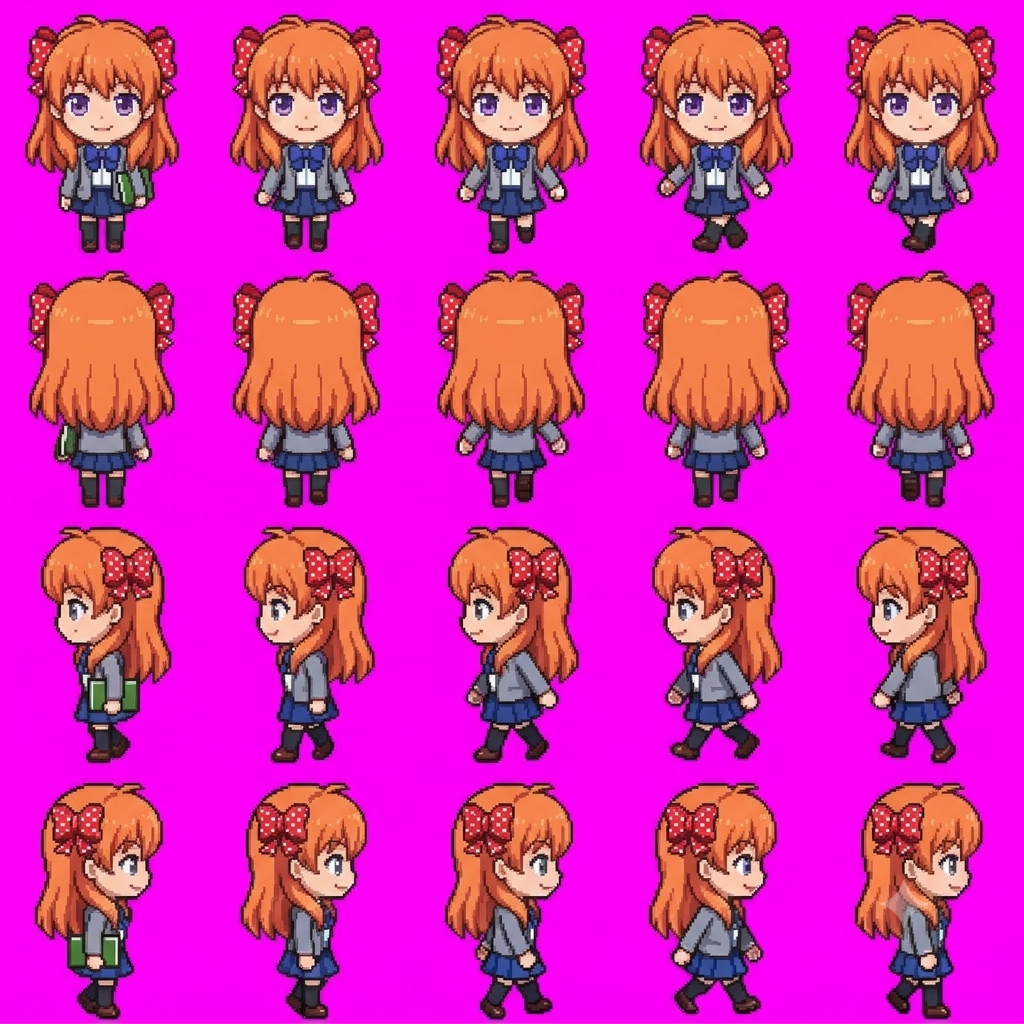
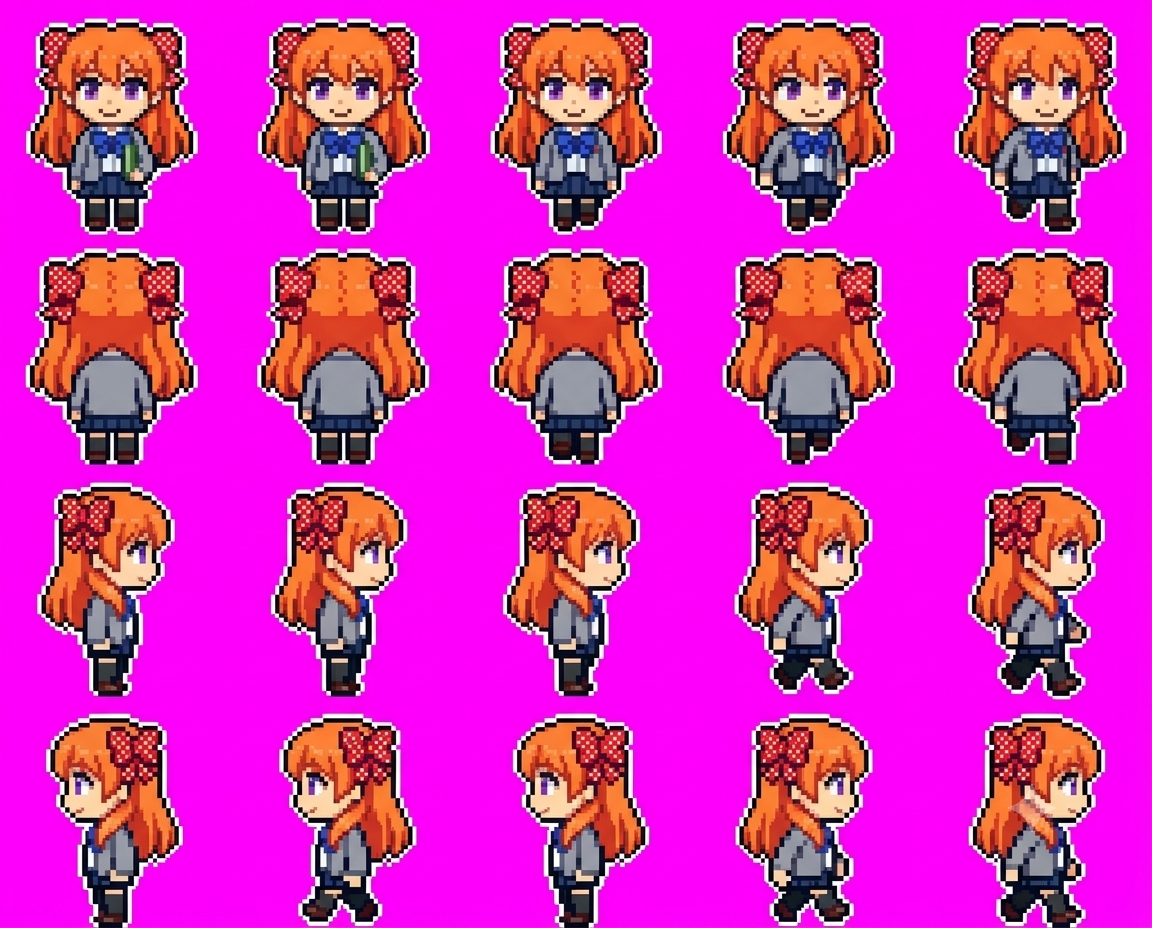
Redraw Chiyo to match Nozaki's art style, without the white outline
Claude-Session: https://claude.ai/code/session_01KaPsBYLrtbRfMYNG2xeBCK

diff --git a/docs/app.js b/docs/app.js
@@ -75,7 +75,7 @@ function spr(cat, k, col, sc) {
   return `<div class="clip" style="width:${it[2] * sc}px;height:${it[3] * sc}px;POS"><img class="px" src="assets/decor/${cat}.png" alt="" style="width:${S.sw * sc}px;height:${S.sh * sc}px;margin-left:${-col * S.cw * sc}px;margin-top:${-i * S.ch * sc}px"></div>`;
 }
 const icon = (k, sz) => `<span class="itm" style="width:${sz}px;height:${sz}px"><img class="px" src="assets/ui/items.png" alt="" style="width:${IT.length * sz}px;height:${sz}px;margin-left:${-ITM[k].i * sz}px"></span>`;
-const face = (id, w) => { const s = w / 96; return `<img class="px" src="assets/ch/${id}.webp?v=22" alt="" style="position:absolute;width:${384 * s}px;height:${528 * s}px;left:${-(96 * s - w) / 2}px;top:0;max-width:none">`; };
+const face = (id, w) => { const s = w / 96; return `<img class="px" src="assets/ch/${id}.webp?v=23" alt="" style="position:absolute;width:${384 * s}px;height:${528 * s}px;left:${-(96 * s - w) / 2}px;top:0;max-width:none">`; };
 
 // ---------- 저장 ----------
 let fb = null, user = null, S = null, saveT = null;
@@ -143,7 +143,7 @@ function sleepHTML(id, r, dy) {
   const pos = r.a && r.a[0] === 'bed' ? 'left:3%;bottom:20%' : r.b && r.b[0] === 'bed' ? 'right:3%;bottom:20%' : 'left:calc(50% - 44px);bottom:6%';
   const s = 36 / 96;
   return `<div style="position:absolute;width:88px;height:56px;${pos};z-index:${dy ? 4 : 5};${dy ? `transform:translate(12px,${dy}px)` : ''}"><div style="position:absolute;inset:0;filter:brightness(.22)">
-    <div style="position:absolute;left:11px;top:1px;width:36px;height:50px;overflow:hidden;transform:rotate(-90deg)"><img class="px" src="assets/ch/${id}.webp?v=22" alt="" style="width:${384 * s}px;height:${528 * s}px;max-width:none;margin-top:${-132 * s}px"></div>
+    <div style="position:absolute;left:11px;top:1px;width:36px;height:50px;overflow:hidden;transform:rotate(-90deg)"><img class="px" src="assets/ch/${id}.webp?v=23" alt="" style="width:${384 * s}px;height:${528 * s}px;max-width:none;margin-top:${-132 * s}px"></div>
     <div style="position:absolute;left:19px;top:19px;width:67px;height:29px;border:2px solid var(--ink);border-radius:8px 6px 4px 4px;background:#8ccff5;background-image:repeating-linear-gradient(90deg,transparent 0 10px,rgba(255,255,255,.5) 10px 13px)"></div></div>
     ${dy ? '' : '<span class="emo" style="left:8px;top:-22px;color:#5b6bd6">Z z z</span>'}</div>`;
 }
@@ -153,8 +153,8 @@ function roomHTML(id, o, scale) {
     <div class="floor" style="background-color:${PAL[r.fc][1]};background-image:${tileUrl('floor', r.fl)}"></div>
     ${slot('deco', r.dc, 'left:6%;top:6%')}${slot('furn', r.a, 'left:3%;bottom:20%')}${slot('furn', r.b, 'right:3%;bottom:20%')}${slot('prop', r.pr, 'left:28%;bottom:4%;z-index:2')}
     ${id && o.sleeping && g ? sleepHTML(g, r, -16) : ''}${id && o.sleeping ? sleepHTML(id, r) : ''}${id && o.job ? `<div style="position:absolute;left:50%;top:38%;transform:translateX(-50%);z-index:5;background:#fff;border:3px solid var(--ink);border-radius:10px;padding:6px 10px;font-size:11px;text-align:center;line-height:1.5"><img src="assets/ui/ic_job.png" alt="" style="width:18px;vertical-align:-4px"> ${WORK[id] ? WORK[id][1] : esc(JOB_NAME[id]) + ' 알바 중'}${g ? `<br><small>${esc(nameOf(g))}도 같이</small>` : ''}<br><b id="jobleft">${timeLeft(o.job.until)}</b></div>` : ''}
-    ${id ? `<div class="shadow" id="shd" ${o.sleeping || o.job ? 'style="display:none"' : ''}></div><div class="man" id="man" ${o.sleeping || o.job ? 'style="display:none"' : ''}><img class="px" src="assets/ch/${id}.webp?v=22" alt="${esc(nameOf(id))}"></div><span class="emo" id="emo" hidden></span><span class="mumble" id="mum" hidden></span>` : ''}
-    ${g ? `<div class="shadow" id="gshd" ${hideG}></div><div class="man" id="gman" ${hideG}><img class="px" src="assets/ch/${g}.webp?v=22" alt="${esc(nameOf(g))}"></div><span class="emo" id="gemo" hidden></span><span class="mumble gmum" id="gmum" hidden></span>` : ''}
+    ${id ? `<div class="shadow" id="shd" ${o.sleeping || o.job ? 'style="display:none"' : ''}></div><div class="man" id="man" ${o.sleeping || o.job ? 'style="display:none"' : ''}><img class="px" src="assets/ch/${id}.webp?v=23" alt="${esc(nameOf(id))}"></div><span class="emo" id="emo" hidden></span><span class="mumble" id="mum" hidden></span>` : ''}
+    ${g ? `<div class="shadow" id="gshd" ${hideG}></div><div class="man" id="gman" ${hideG}><img class="px" src="assets/ch/${g}.webp?v=23" alt="${esc(nameOf(g))}"></div><span class="emo" id="gemo" hidden></span><span class="mumble gmum" id="gmum" hidden></span>` : ''}
     ${o.sleeping ? `<div class="night"></div><div class="sleepleft">쿨쿨 · 일어나기까지 <b id="sleepleft">${timeLeft(wakeAt(o)).replace(' 남음', '')}</b></div>` : ''}
   </div>`;
 }
@@ -167,7 +167,7 @@ function meterHTML(o) {
 const ic = (act, img, label, pressed) => `<button class="ic" data-act="${act}" ${pressed ? 'aria-pressed="true"' : ''}><img src="assets/ui/ic_${img}.png?v=2" alt="">${label}</button>`;
 
 let dropStyle = null; const cheat = {};
-const APP_V = 94, COUPONS = { NINOGUYA: 3000 };
+const APP_V = 95, COUPONS = { NINOGUYA: 3000 };
 // 쿠폰 입력 정리: 한글 자판 상태로 친 글자(ㅜㅑㅜㅐ혀ㅛㅁ)도 영어 자판 글자로 바꾸고, 대소문자·띄어쓰기·마침표는 무시해요
 const KEY = { ㄱ: 'r', ㄲ: 'R', ㄴ: 's', ㄷ: 'e', ㄸ: 'E', ㄹ: 'f', ㅁ: 'a', ㅂ: 'q', ㅃ: 'Q', ㅅ: 't', ㅆ: 'T', ㅇ: 'd', ㅈ: 'w', ㅉ: 'W', ㅊ: 'c', ㅋ: 'z', ㅌ: 'x', ㅍ: 'v', ㅎ: 'g',
   ㅏ: 'k', ㅐ: 'o', ㅑ: 'i', ㅒ: 'O', ㅓ: 'j', ㅔ: 'p', ㅕ: 'u', ㅖ: 'P', ㅗ: 'h', ㅘ: 'hk', ㅙ: 'ho', ㅚ: 'hl', ㅛ: 'y', ㅜ: 'n', ㅝ: 'nj', ㅞ: 'np', ㅟ: 'nl', ㅠ: 'b', ㅡ: 'm', ㅢ: 'ml', ㅣ: 'l',
@@ -407,7 +407,7 @@ function startTrip(k) {
   if (tg) lines[1] = `${nameOf(tg)}: ${withHim(sub(pick(GLX(tg).trip), o, c.n), tg)}`;
   const n = (FR[id] || [4, 4, 4, 4])[3], el = document.createElement('div'); el.className = 'tripview';
   el.innerHTML = `<div class="tsay"> </div><div class="tstage" style="background-image:url(assets/travel/${k}.png?v=2)"><div class="tplace">${esc(c.n)}</div>
-    <div class="twalker"><img class="px" src="assets/ch/${id}.webp?v=22" alt=""></div>${tg ? `<div class="twalker tgirl"><img class="px" src="assets/ch/${tg}.webp?v=22" alt=""></div>` : ''}<span class="emo tjoy">♪</span></div>
+    <div class="twalker"><img class="px" src="assets/ch/${id}.webp?v=23" alt=""></div>${tg ? `<div class="twalker tgirl"><img class="px" src="assets/ch/${tg}.webp?v=23" alt=""></div>` : ''}<span class="emo tjoy">♪</span></div>
     <div class="tbar"><i></i></div><button class="btn white tskip" data-tskip="1">바로 돌아오기</button>`;
   document.body.appendChild(el);
   const gimg = el.querySelector('.tgirl img'), gn = tg ? (FR[tg] || [4, 4, 4, 4])[3] : 1;
@@ -636,7 +636,7 @@ setInterval(() => { if (S && user) { tickTime(); save(); } }, 60000);
     if (nv > APP_V && !location.search.includes('u=' + nv)) { location.replace(location.pathname + '?u=' + nv); return; }
   } catch { }
   app.innerHTML = '<div class="start"><div class="egg"><div class="scr"></div></div><div class="note">불러오는 중....</div></div>';
-  const [c, t, f, it, mu, ct, tv, gl, sts] = await Promise.all(['data/chars.json', 'data/talk.json', 'data/frames.json', 'data/items.json', 'data/mumble.json', 'data/countries.json', 'data/travel.json', 'data/girls.json', 'data/sets.json'].map(u => fetch(u + '?v=94').then(r => r.ok ? r.json() : {})));
+  const [c, t, f, it, mu, ct, tv, gl, sts] = await Promise.all(['data/chars.json', 'data/talk.json', 'data/frames.json', 'data/items.json', 'data/mumble.json', 'data/countries.json', 'data/travel.json', 'data/girls.json', 'data/sets.json'].map(u => fetch(u + '?v=95').then(r => r.ok ? r.json() : {})));
   CH = c; CHM = Object.fromEntries(c.map(x => [x.id, x])); TALK = t; FR = f; IT = it; ITM = Object.fromEntries(it.map(x => [x.k, x])); MUM = mu; CTRY = ct; TRV = tv; GL = Array.isArray(gl) ? gl : []; SETS = Array.isArray(sts) ? sts : []; GLM = Object.fromEntries(GL.map(x => [x.id, x]));
   try { await initFirebase(); } catch (e) { console.warn('Firebase 연결 실패, 기기 저장으로', e); fb = null; }
   if (fb) {

diff --git a/docs/index.html b/docs/index.html
@@ -18,6 +18,6 @@
 <main id="app" aria-live="polite"></main>
 <div id="toast" role="status" hidden></div>
 <script src="firebase-config.js?v=3"></script>
-<script type="module" src="app.js?v=94"></script>
+<script type="module" src="app.js?v=95"></script>
 </body>
 </html>

diff --git a/tk_magenta.py b/tk_magenta.py
@@ -21,6 +21,7 @@ def key_green(a):
     out = np.zeros(a.shape[:2] + (4,), np.uint8); out[..., :3] = np.clip(rgb, 0, 255); out[..., 3] = np.where(fg, 255, 0)
     return out
 
+NO_DESPILL = False
 def key(a):
     c = a[:4, :4, :3].reshape(-1, 3).astype(int).mean(0)
     if c[1] > 180 and c[0] < 100 and c[2] < 100: return key_green(a)
@@ -44,12 +45,29 @@ def key(a):
     # 배경 근처에 남은 분홍기 빼기(despill): R·B가 G보다 넘치는 만큼 깎아요
     near = ndimage.binary_dilation(~fg, iterations=3) & fg
     ex = np.clip(np.minimum(R, B) - G, 0, None) * near
-    rgb = rgb.copy(); rgb[..., 0] -= ex; rgb[..., 2] -= ex
+    if not NO_DESPILL: rgb = rgb.copy(); rgb[..., 0] -= ex; rgb[..., 2] -= ex
     out = np.zeros(a.shape[:2] + (4,), np.uint8); out[..., :3] = rgb; out[..., 3] = np.where(fg, 255, 0)
     return out
 
+def strip_white(out):
+    """캐릭터 둘레의 흰 테두리를 바깥부터 한 겹씩 깎아요 (안쪽 흰 셔츠·양말은 그대로)"""
+    al = out[..., 3] > 0; rgb = out[..., :3].astype(int)
+    white = (rgb.min(2) > 170) & ((rgb.max(2) - rgb.min(2)) < 60)   # 흰색·흰색에 분홍이 섞인 테두리까지
+    for _ in range(8):
+        edge = al & ~ndimage.binary_erosion(al); rm = edge & white
+        if not rm.any(): break
+        al &= ~rm
+    out[..., 3] = np.where(al, 255, 0); return out
+
+STRIP = {'chiyo'}   # 흰 테두리가 있는 시트 (흰 테두리 덕분에 분홍기 빼기도 필요 없어요: 보라 눈이 지워지지 않게)
 def cells(path, cols=5, rows=4):
-    im = np.asarray(Image.open(path).convert('RGB')); H, W = im.shape[:2]; a = key(im)
+    global NO_DESPILL
+    st = any(k in path for k in STRIP); NO_DESPILL = st
+    im = np.asarray(Image.open(path).convert('RGB')); H, W = im.shape[:2]; a = key(im); NO_DESPILL = False
+    if st:   # 흰 테두리 시트: 보통처럼 자른 뒤, 캐릭터 안쪽에 갇힌 구멍(배경색과 비슷한 보라 눈 등)은 원래 색으로 채우고 흰 테두리를 깎아요
+        al = a[..., 3] > 0; filled = ndimage.binary_fill_holes(al)
+        a[..., :3] = np.where((filled & ~al)[..., None], im, a[..., :3]); a[..., 3] = np.where(filled, 255, 0)
+        a = strip_white(a)
     def cuts(prof, n, L):   # 칸 경계는 그 근처에서 캐릭터가 가장 적게 걸치는 줄로 (시트가 격자에 딱 안 맞아도)
         out = [0]
         for k in range(1, n):
